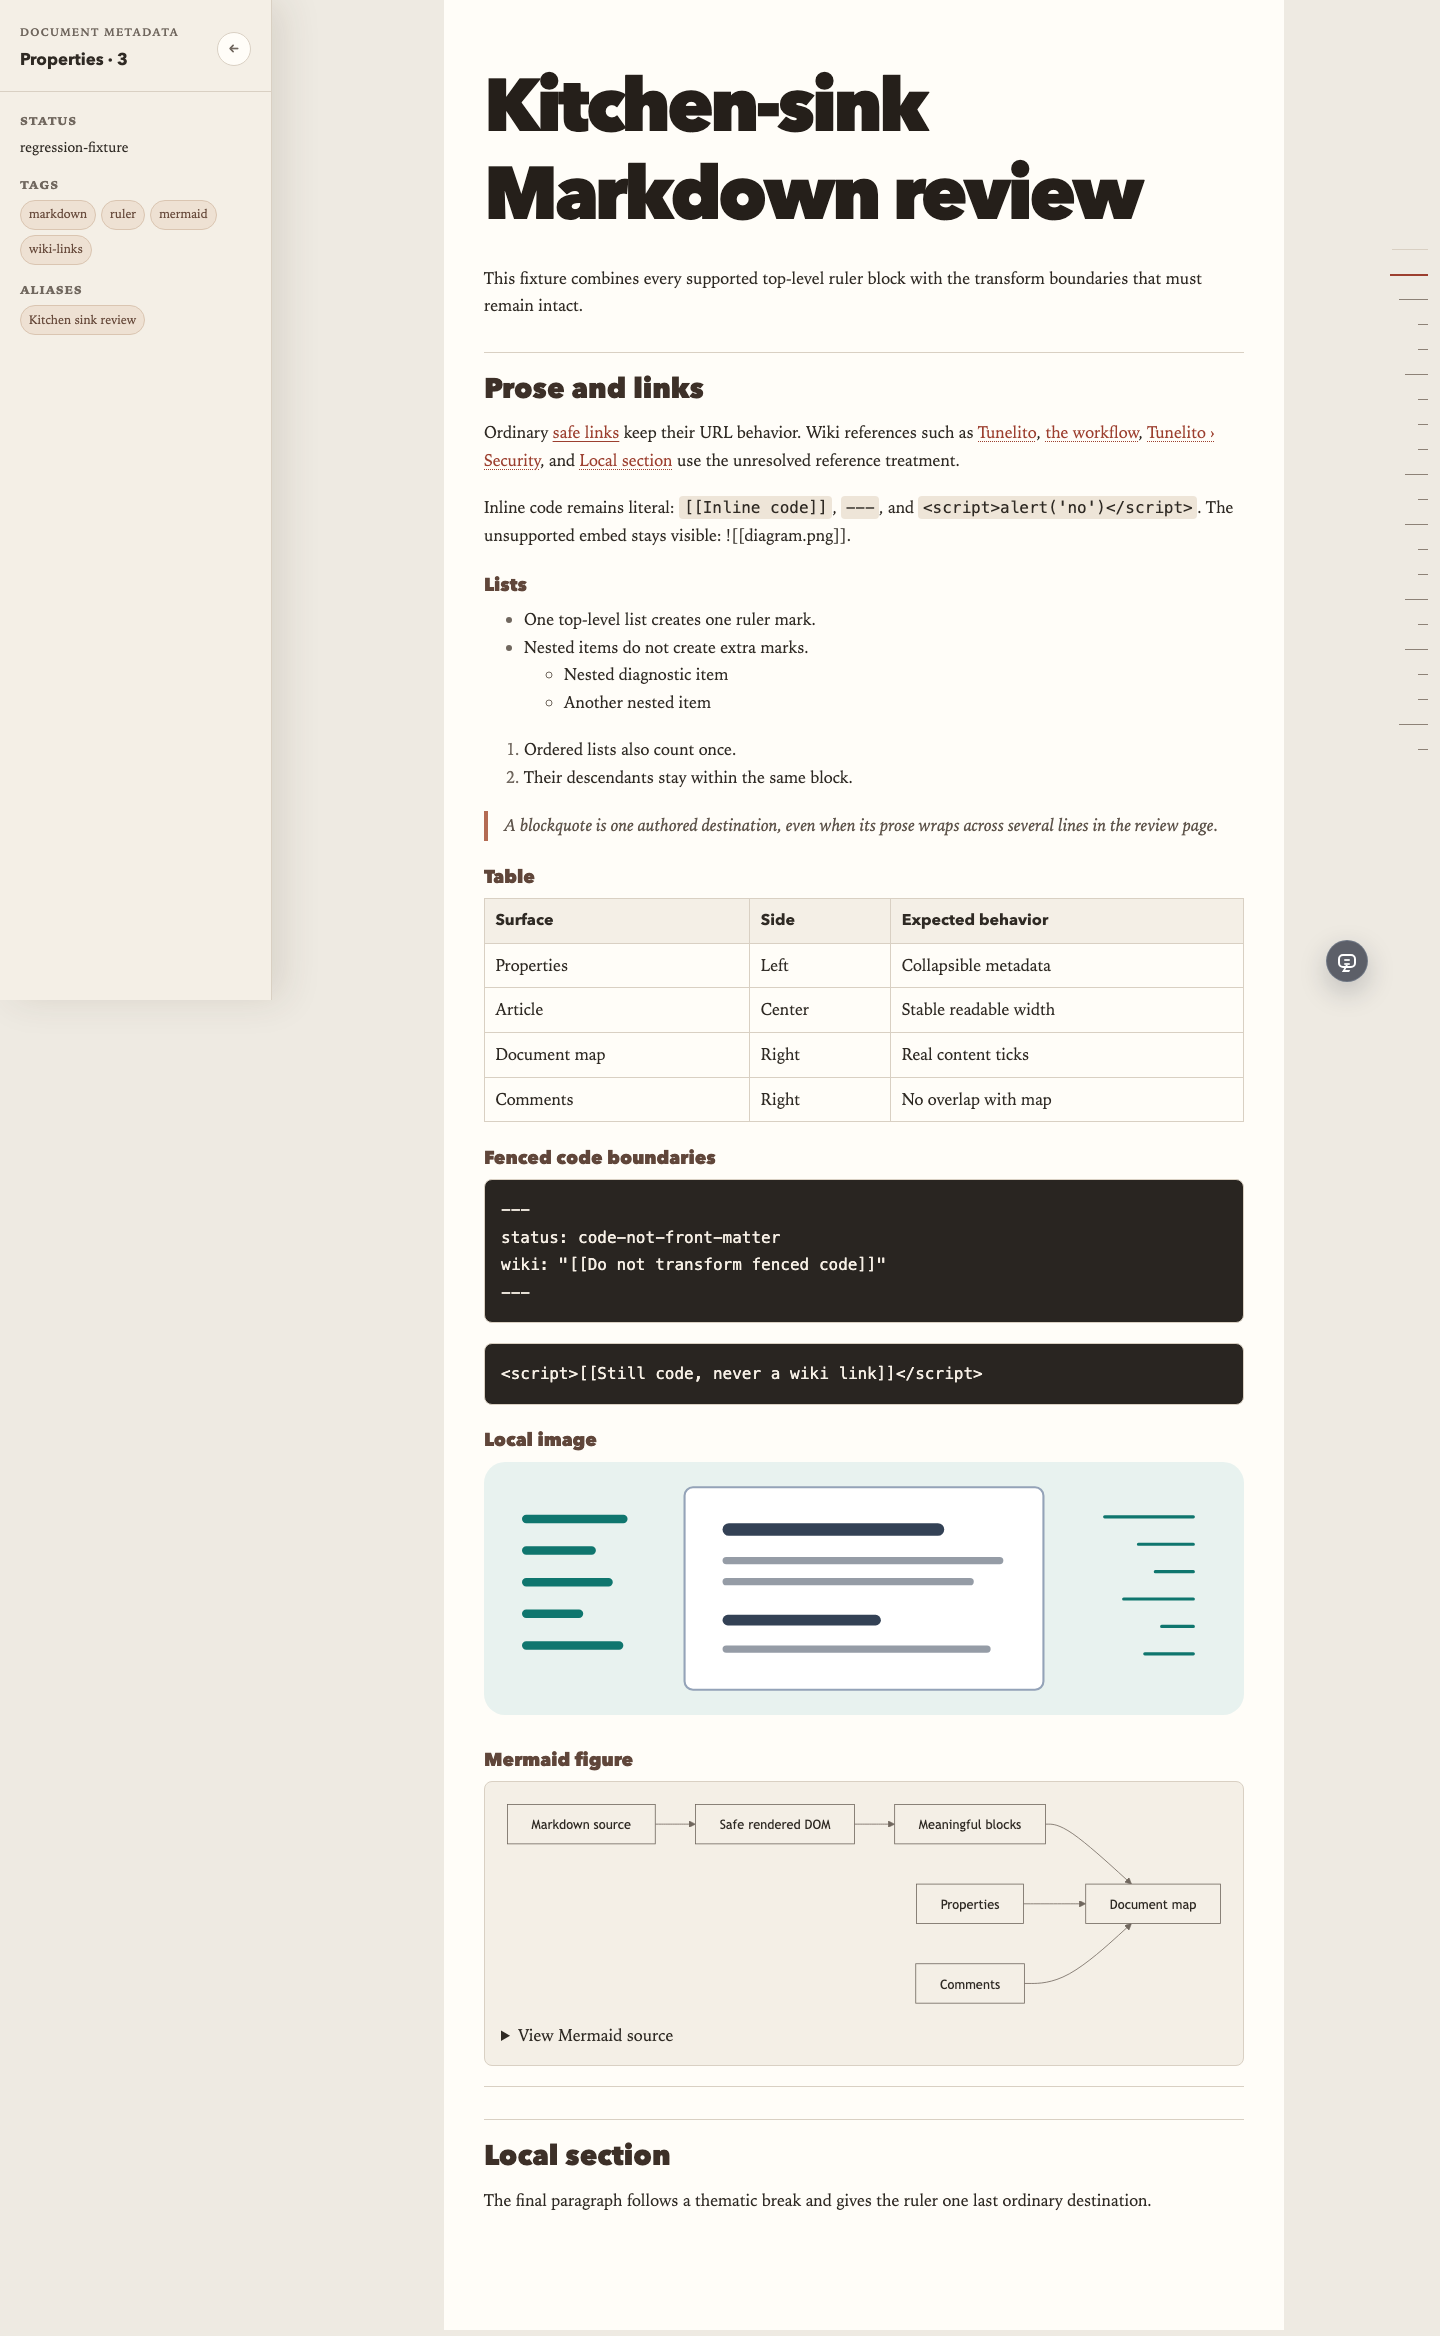
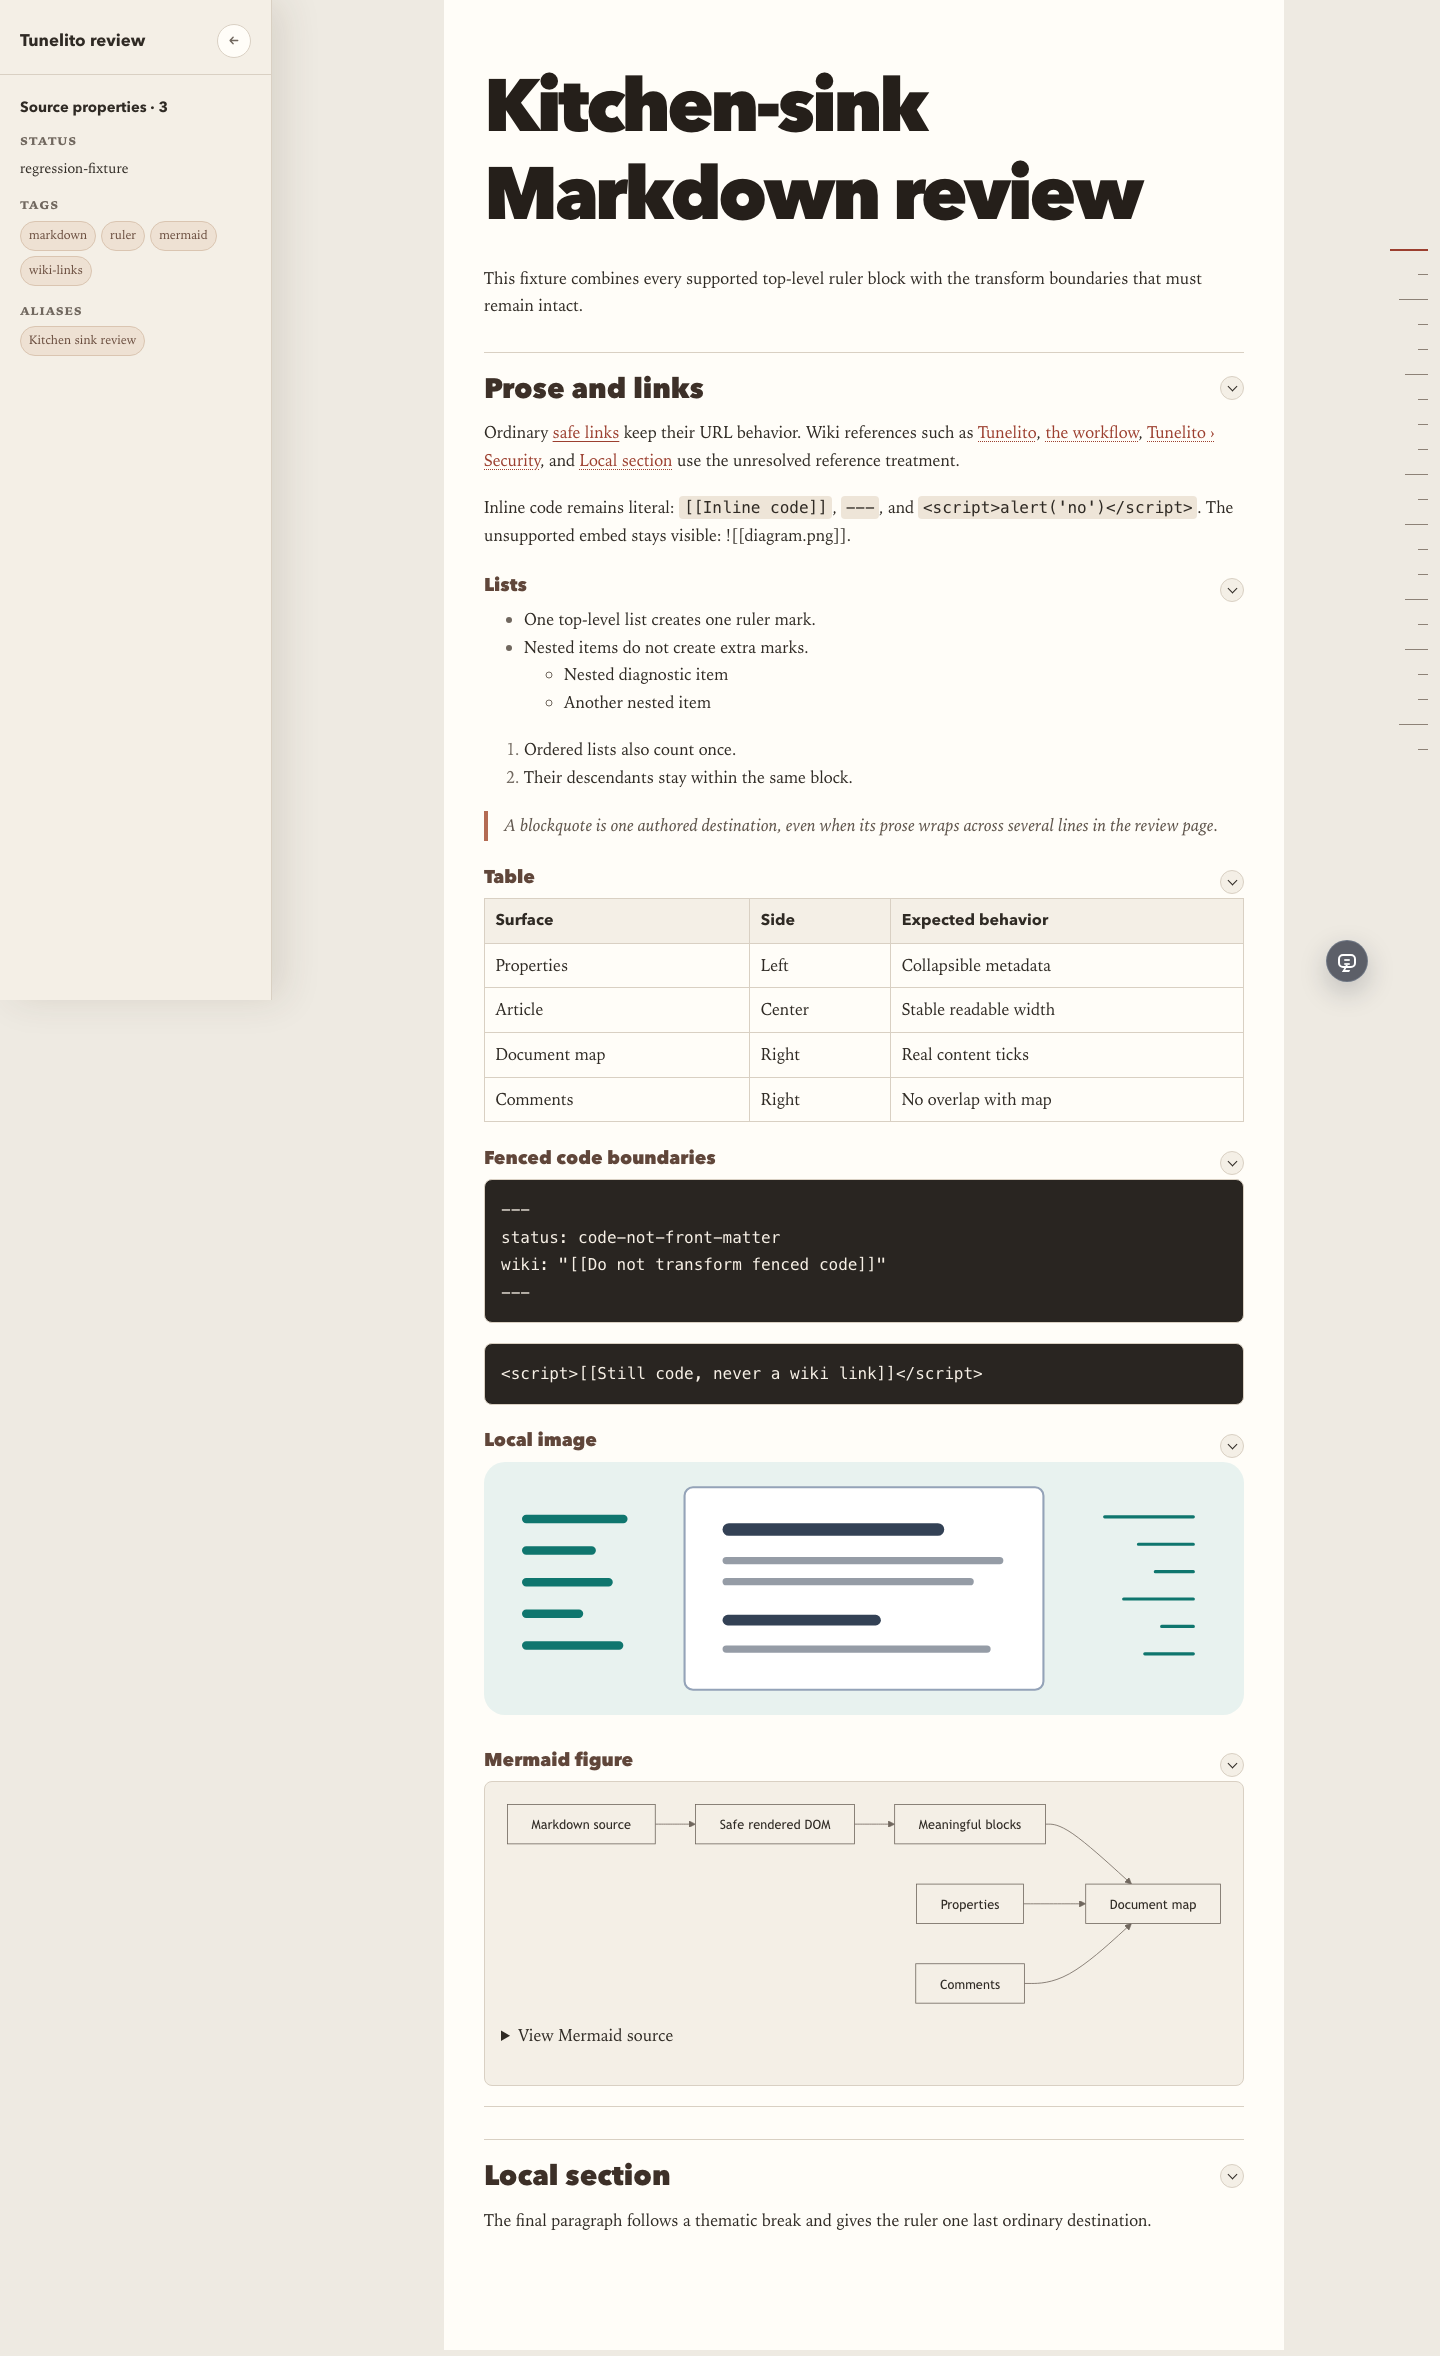
fix(markdown): drop sidebar eyebrows; replace overused theme faces
- Sidebar headings carry provenance themselves ("Tunelito review",
  "Served documents" on a nav named "Tunelito navigation", "Source
  properties · N") instead of uppercase kicker labels above them.
- bns-pitaya: Seravek/Aptos body and Optima/Candara headings replace
  Plus Jakarta Sans and Geist; technical: IBM Plex Sans replaces Inter.
  Still installed faces only, no network fonts.
- text-wrap: pretty on Markdown prose; regenerate theme screenshots.

diff --git a/src/markdown.js b/src/markdown.js
@@ -147,6 +147,11 @@ body {
   letter-spacing: 0.02em;
 }
 .tunelito-markdown p,
+.tunelito-markdown li,
+.tunelito-markdown blockquote {
+  text-wrap: pretty;
+}
+.tunelito-markdown p,
 .tunelito-markdown ul,
 .tunelito-markdown ol,
 .tunelito-markdown blockquote,
@@ -220,14 +225,6 @@ body {
   background: color-mix(in srgb, var(--tl-properties-bg) 92%, transparent);
   backdrop-filter: blur(12px);
 }
-.tunelito-properties-kicker {
-  margin: 0 0 3px;
-  color: var(--tl-muted);
-  font-size: 0.72rem;
-  font-weight: 700;
-  letter-spacing: 0.1em;
-  text-transform: uppercase;
-}
 .tunelito-properties-title {
   margin: 0;
   color: var(--tl-text);
@@ -241,11 +238,8 @@ body {
 .tunelito-sidebar-section + .tunelito-sidebar-section {
   border-top: 1px solid var(--tl-border);
 }
-.tunelito-sidebar-section-header {
-  margin-bottom: 12px;
-}
 .tunelito-sidebar-section-title {
-  margin: 0;
+  margin: 0 0 12px;
   color: var(--tl-text);
   font-family: var(--tl-font-display);
   font-size: 0.92rem;
@@ -1471,19 +1465,13 @@ function renderSidebar(frontMatter, navigation) {
     "    </button>",
     '    <aside class="tunelito-properties" id="tunelito-properties" aria-label="Tunelito document sidebar" data-tunelito-comment-ignore>',
     '      <header class="tunelito-properties-header">',
-    "        <div>",
-    '          <p class="tunelito-properties-kicker">Tunelito review</p>',
-    '          <h2 class="tunelito-properties-title">Document sidebar</h2>',
-    "        </div>",
+    '        <h2 class="tunelito-properties-title">Tunelito review</h2>',
     '        <button class="tunelito-properties-collapse" type="button" aria-controls="tunelito-properties" aria-expanded="true" aria-label="Collapse document sidebar">←</button>',
     "      </header>",
     navigationContent,
     hasProperties ? [
       '      <section class="tunelito-sidebar-section tunelito-properties-section" aria-labelledby="tunelito-properties-title">',
-      '        <header class="tunelito-sidebar-section-header">',
-      '          <p class="tunelito-properties-kicker">Source metadata</p>',
-      `          <h3 class="tunelito-sidebar-section-title" id="tunelito-properties-title">Properties · ${escapeHtml(countLabel)}</h3>`,
-      "        </header>",
+      `        <h3 class="tunelito-sidebar-section-title" id="tunelito-properties-title">Source properties · ${escapeHtml(countLabel)}</h3>`,
       propertyContent,
       "      </section>",
     ].join("\n") : "",
@@ -1496,11 +1484,8 @@ function renderNavigation(entries) {
     ? `<ul class="tunelito-navigation-list">\n${entries.map(renderNavigationEntry).join("\n")}\n        </ul>`
     : '<p class="tunelito-navigation-empty">No served documents are available.</p>';
   return [
-    '      <nav class="tunelito-sidebar-section tunelito-navigation" aria-labelledby="tunelito-navigation-title">',
-    '        <header class="tunelito-sidebar-section-header">',
-    '          <p class="tunelito-properties-kicker">Tunelito navigation</p>',
-    '          <h3 class="tunelito-sidebar-section-title" id="tunelito-navigation-title">Served documents</h3>',
-    "        </header>",
+    '      <nav class="tunelito-sidebar-section tunelito-navigation" aria-label="Tunelito navigation">',
+    '        <h3 class="tunelito-sidebar-section-title" id="tunelito-navigation-title">Served documents</h3>',
     content,
     "      </nav>",
   ].join("\n");

diff --git a/src/themes.js b/src/themes.js
@@ -192,8 +192,8 @@ const THEMES = {
   technical: `
 :root[data-tunelito-theme="technical"] {
   color-scheme: light dark;
-  --tl-font-body: Inter, "Helvetica Neue", ui-sans-serif, system-ui, sans-serif;
-  --tl-font-display: "IBM Plex Sans", Inter, ui-sans-serif, system-ui, sans-serif;
+  --tl-font-body: "IBM Plex Sans", "Segoe UI Variable Text", "Helvetica Neue", ui-sans-serif, system-ui, sans-serif;
+  --tl-font-display: "IBM Plex Sans", "Segoe UI Variable Display", "Helvetica Neue", ui-sans-serif, system-ui, sans-serif;
   --tl-font-mono: "IBM Plex Mono", "SFMono-Regular", Consolas, ui-monospace, monospace;
   --tl-page-bg: #edf2f7;
   --tl-paper-bg: #fdfefe;
@@ -283,8 +283,11 @@ const THEMES = {
   "bns-pitaya": `
 :root[data-tunelito-theme="bns-pitaya"] {
   color-scheme: dark;
-  --tl-font-body: "Plus Jakarta Sans", ui-sans-serif, system-ui, -apple-system, sans-serif;
-  --tl-font-display: "Geist Sans", ui-sans-serif, system-ui, -apple-system, sans-serif;
+  /* Installed humanist faces, no network fonts: Seravek (macOS) or Aptos /
+     Segoe UI Variable (Windows) for reading, flared Optima or Candara for
+     headings. */
+  --tl-font-body: Seravek, Aptos, "Segoe UI Variable Text", "Gill Sans Nova", ui-sans-serif, system-ui, sans-serif;
+  --tl-font-display: Optima, Candara, "Segoe UI Variable Display", ui-sans-serif, system-ui, sans-serif;
   --tl-font-mono: "IBM Plex Mono", ui-monospace, SFMono-Regular, Menlo, monospace;
   --tl-page-bg: #0c0c10;
   --tl-paper-bg: #121318;

diff --git a/test/server.test.js b/test/server.test.js
@@ -1112,9 +1112,9 @@ test("directory Markdown pages receive a collapsed, filtered navigation tree", a
   try {
     const plainHtml = await fetch(new URL("/No%20front%20matter.md", instance.localUrl)).then((res) => res.text());
     assert.match(plainHtml, /data-tunelito-theme="bns-pitaya"/);
-    assert.match(plainHtml, /Tunelito navigation/);
+    assert.match(plainHtml, /aria-label="Tunelito navigation"/);
     assert.match(plainHtml, /Served documents/);
-    assert.doesNotMatch(plainHtml, /Source metadata/);
+    assert.doesNotMatch(plainHtml, /Source properties/);
     assert.match(plainHtml, /href="\/No%20front%20matter\.md" aria-current="page"/);
     assert.match(plainHtml, /href="\/Projects%20%26%20caf%C3%A9\/"/);
     assert.match(plainHtml, /<details class="tunelito-navigation-folder">/);
@@ -1126,8 +1126,7 @@ test("directory Markdown pages receive a collapsed, filtered navigation tree", a
 
     const homeHtml = await fetch(new URL("/index.md", instance.localUrl)).then((res) => res.text());
     assert.match(homeHtml, /Tunelito navigation/);
-    assert.match(homeHtml, /Source metadata/);
-    assert.match(homeHtml, /Properties · 1/);
+    assert.match(homeHtml, /Source properties · 1/);
 
     const deepHtml = await fetch(new URL("/Projects%20%26%20caf%C3%A9/Deep%20plans/Now.md", instance.localUrl)).then((res) => res.text());
     assert.match(deepHtml, /href="\/Projects%20%26%20caf%C3%A9\/Deep%20plans\/Now\.md" aria-current="page"/);

diff --git a/test/markdown.test.js b/test/markdown.test.js
@@ -65,10 +65,10 @@ test("renderMarkdownDocument keeps injected navigation distinct from source prop
     },
   });
 
-  assert.match(html, /Tunelito navigation/);
+  assert.match(html, /<nav class="tunelito-sidebar-section tunelito-navigation" aria-label="Tunelito navigation">/);
   assert.match(html, /Served documents/);
-  assert.match(html, /Source metadata/);
-  assert.match(html, /Properties · 1/);
+  assert.match(html, /Source properties · 1/);
+  assert.doesNotMatch(html, /tunelito-properties-kicker/, "sidebar headings carry provenance without eyebrow labels");
   assert.match(html, /href="\/Project%20brief\.md" aria-current="page"/);
   assert.match(html, />Current<\/span>/);
   assert.match(html, /<details class="tunelito-navigation-folder">/);
@@ -87,8 +87,8 @@ test("renderMarkdownDocument shows directory navigation without an empty propert
   });
 
   assert.match(html, /class="tunelito-has-sidebar tunelito-properties-open"/);
-  assert.match(html, /Tunelito navigation/);
-  assert.doesNotMatch(html, /Source metadata/);
+  assert.match(html, /aria-label="Tunelito navigation"/);
+  assert.doesNotMatch(html, /Source properties/);
   assert.doesNotMatch(html, /Properties · 0/);
 });
 

diff --git a/CHANGELOG.md b/CHANGELOG.md
@@ -11,6 +11,8 @@
 - Honors `prefers-reduced-motion` in the review panel: no launcher lift, no gliding peer cursors, instant jump-to-comment, and no fade on the flash. The flash marker now stays on the text during a smooth scroll.
 - Speeds up selection and comment rendering. One text walk per task replaces repeated full-document walks, `selectionchange` settles for 120ms before capture, and the document map only updates markers that changed.
 - The composer uses the system font instead of falling back to the browser serif, and the Markdown sidebar labels rise to the 11px floor.
+- Removes the small uppercase labels above the Markdown sidebar headings. The headings now carry the provenance themselves: **Tunelito review**, **Served documents** (a nav named `Tunelito navigation` for assistive tech), and **Source properties · N**.
+- Replaces the overused faces in two Markdown themes. Fonts are still installed system faces only, with no network fonts. `bns-pitaya` moves from Plus Jakarta Sans and Geist to Seravek for reading (with Aptos or Segoe UI Variable on Windows) and Optima for headings (Candara on Windows). `technical` drops Inter for IBM Plex Sans, falling back to Segoe UI Variable or Helvetica Neue. Markdown paragraphs, list items, and quotes use `text-wrap: pretty` to avoid a lone word on the last line. The theme reference screenshots are regenerated.
 
 ## 1.0.0 - 2026-11-02
 
